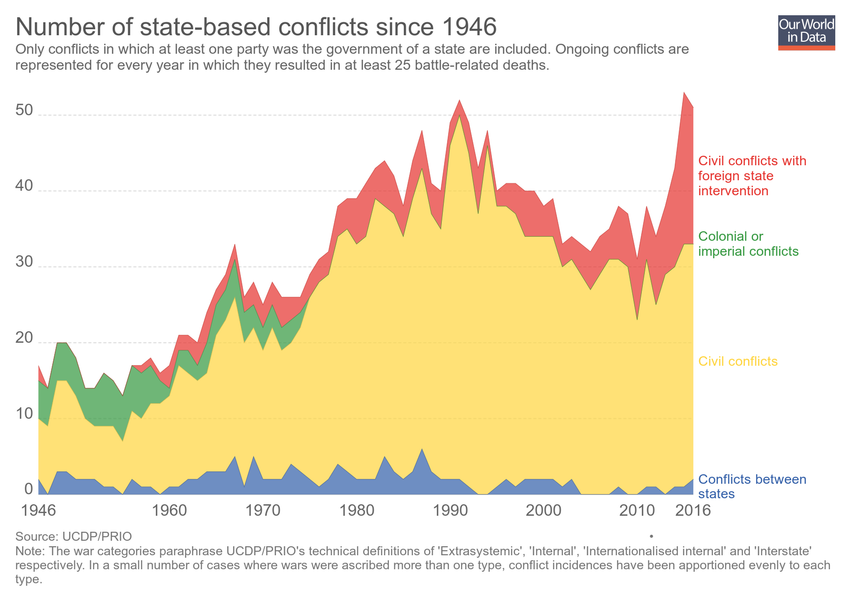
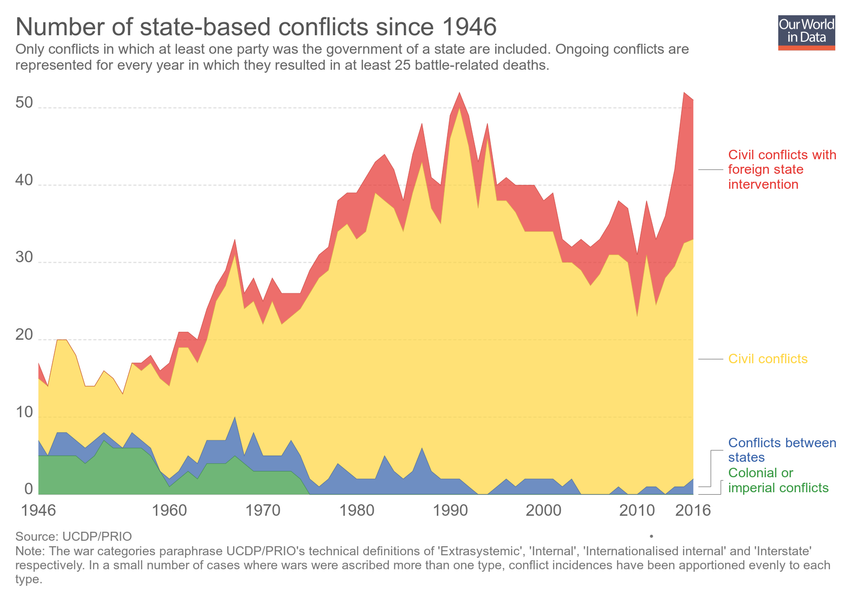
Updating chart number-of-state-based-conflicts-since-1946

diff --git a/grapher/number-of-state-based-conflicts-since-1946.html b/grapher/number-of-state-based-conflicts-since-1946.html
@@ -1,4 +1,4 @@
-<!doctype html><html><head><meta name="viewport" content="width=device-width, initial-scale=1" /><title>Number of state-based conflicts since 1946 - Our World in Data</title><meta name="description" content="Only conflicts in which at least one party was the government of a state are included. Ongoing conflicts are represented for every year in which they resulted in at least 25 battle-related deaths." /><link rel="canonical" href="https://ourworldindata.org/grapher/number-of-state-based-conflicts-since-1946" /><meta property="fb:app_id" content="1149943818390250" /><meta property="og:url" content="https://ourworldindata.org/grapher/number-of-state-based-conflicts-since-1946" /><meta property="og:title" content="Number of state-based conflicts since 1946" /><meta property="og:description" content="Only conflicts in which at least one party was the government of a state are included. Ongoing conflicts are represented for every year in which they resulted in at least 25 battle-related deaths." /><meta property="og:image" content="https://ourworldindata.org/grapher/exports/number-of-state-based-conflicts-since-1946.png?v=5" /><meta property="og:image:width" content="850" /><meta property="og:image:height" content="600" /><meta property="og:site_name" content="Our World in Data" /><meta name="twitter:card" content="summary_large_image" /><meta name="twitter:site" content="@OurWorldInData" /><meta name="twitter:creator" content="@OurWorldInData" /><meta name="twitter:title" content="Number of state-based conflicts since 1946" /><meta name="twitter:description" content="Only conflicts in which at least one party was the government of a state are included. Ongoing conflicts are represented for every year in which they resulted in at least 25 battle-related deaths." /><meta name="twitter:image" content="https://ourworldindata.org/grapher/exports/number-of-state-based-conflicts-since-1946.png?v=5" /><style>
+<!doctype html><html><head><meta name="viewport" content="width=device-width, initial-scale=1" /><title>Number of state-based conflicts since 1946 - Our World in Data</title><meta name="description" content="Only conflicts in which at least one party was the government of a state are included. Ongoing conflicts are represented for every year in which they resulted in at least 25 battle-related deaths." /><link rel="canonical" href="https://ourworldindata.org/grapher/number-of-state-based-conflicts-since-1946" /><meta property="fb:app_id" content="1149943818390250" /><meta property="og:url" content="https://ourworldindata.org/grapher/number-of-state-based-conflicts-since-1946" /><meta property="og:title" content="Number of state-based conflicts since 1946" /><meta property="og:description" content="Only conflicts in which at least one party was the government of a state are included. Ongoing conflicts are represented for every year in which they resulted in at least 25 battle-related deaths." /><meta property="og:image" content="https://ourworldindata.org/grapher/exports/number-of-state-based-conflicts-since-1946.png?v=6" /><meta property="og:image:width" content="850" /><meta property="og:image:height" content="600" /><meta property="og:site_name" content="Our World in Data" /><meta name="twitter:card" content="summary_large_image" /><meta name="twitter:site" content="@OurWorldInData" /><meta name="twitter:creator" content="@OurWorldInData" /><meta name="twitter:title" content="Number of state-based conflicts since 1946" /><meta name="twitter:description" content="Only conflicts in which at least one party was the government of a state are included. Ongoing conflicts are represented for every year in which they resulted in at least 25 battle-related deaths." /><meta name="twitter:image" content="https://ourworldindata.org/grapher/exports/number-of-state-based-conflicts-since-1946.png?v=6" /><style>
         html, body {
             height: 100%;
             margin: 0;
@@ -20,8 +20,8 @@
         }
     </style><noscript><style>
                     figure { display: none !important; }
-                </style></noscript><link rel="stylesheet" href="https://ourworldindata.org/grapher/assets/commons.bundle.62f8703dfc964fd3975c.css" /><link rel="preload" href="/grapher/data/variables/97370.json?v=5" as="fetch" crossorigin /></head><body class="singleChart"><figure data-grapher-src="/grapher/number-of-state-based-conflicts-since-1946"></figure><noscript id="fallback"><img src="/grapher/exports/number-of-state-based-conflicts-since-1946.svg" /><p>Interactive visualization requires JavaScript</p></noscript><script src="https://cdn.polyfill.io/v2/polyfill.min.js?features=es6,fetch"></script><script src="https://ourworldindata.org/grapher/assets/commons.bundle.62f8703dfc964fd3975c.js"></script><script src="https://ourworldindata.org/grapher/assets/charts.bundle.dcf65b68eddaba4c6a58.js"></script><script>
-        var jsonConfig = {"id":2572,"map":{"projection":"World","colorSchemeLabels":[],"colorSchemeValues":[],"colorSchemeMinValue":0,"customNumericColors":[],"customCategoryColors":{},"customCategoryLabels":{},"customHiddenCategories":{}},"tab":"chart","note":"The war categories paraphrase UCDP/PRIO's technical definitions of 'Extrasystemic', 'Internal', 'Internationalised internal' and 'Interstate' respectively. In a small number of cases where wars were ascribed more than one type, conflict incidences have been apportioned evenly to each type.","slug":"number-of-state-based-conflicts-since-1946","type":"StackedArea","title":"Number of state-based conflicts since 1946","xAxis":{"scaleType":"linear"},"yAxis":{"min":0,"scaleType":"linear"},"version":5,"subtitle":"Only conflicts in which at least one party was the government of a state are included. Ongoing conflicts are represented for every year in which they resulted in at least 25 battle-related deaths.","hasMapTab":false,"stackMode":"absolute","dimensions":[{"display":{},"property":"y","variableId":97370}],"hasChartTab":true,"isPublished":true,"selectedData":[{"color":"#e6332e","index":0,"entityId":37491},{"color":"#34983f","index":0,"entityId":37494},{"color":"#ffd53e","index":0,"entityId":37492},{"index":0,"entityId":37493}],"addCountryMode":"disabled"};
+                </style></noscript><link rel="stylesheet" href="https://ourworldindata.org/grapher/assets/commons.bundle.62f8703dfc964fd3975c.css" /><link rel="preload" href="/grapher/data/variables/97370.json?v=6" as="fetch" crossorigin /></head><body class="singleChart"><figure data-grapher-src="/grapher/number-of-state-based-conflicts-since-1946"></figure><noscript id="fallback"><img src="/grapher/exports/number-of-state-based-conflicts-since-1946.svg" /><p>Interactive visualization requires JavaScript</p></noscript><script src="https://cdn.polyfill.io/v2/polyfill.min.js?features=es6,fetch"></script><script src="https://ourworldindata.org/grapher/assets/commons.bundle.62f8703dfc964fd3975c.js"></script><script src="https://ourworldindata.org/grapher/assets/charts.bundle.dcf65b68eddaba4c6a58.js"></script><script>
+        var jsonConfig = {"id":2572,"map":{"projection":"World","colorSchemeLabels":[],"colorSchemeValues":[],"colorSchemeMinValue":0,"customNumericColors":[],"customCategoryColors":{},"customCategoryLabels":{},"customHiddenCategories":{}},"tab":"chart","note":"The war categories paraphrase UCDP/PRIO's technical definitions of 'Extrasystemic', 'Internal', 'Internationalised internal' and 'Interstate' respectively. In a small number of cases where wars were ascribed more than one type, conflict incidences have been apportioned evenly to each type.","slug":"number-of-state-based-conflicts-since-1946","type":"StackedArea","title":"Number of state-based conflicts since 1946","xAxis":{"scaleType":"linear"},"yAxis":{"min":0,"scaleType":"linear"},"version":6,"subtitle":"Only conflicts in which at least one party was the government of a state are included. Ongoing conflicts are represented for every year in which they resulted in at least 25 battle-related deaths.","hasMapTab":false,"stackMode":"absolute","dimensions":[{"display":{},"property":"y","variableId":97370}],"hasChartTab":true,"isPublished":true,"selectedData":[{"color":"#e6332e","index":0,"entityId":37491},{"color":"#ffd53e","index":0,"entityId":37492},{"index":0,"entityId":37493},{"color":"#34983f","index":0,"entityId":37494}],"addCountryMode":"disabled"};
         var figure = document.getElementsByTagName("figure")[0];
         try {
             window.App = {};
